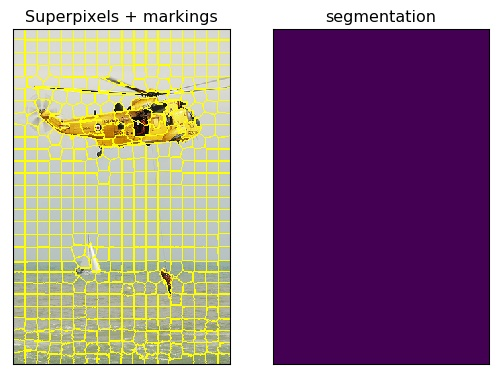
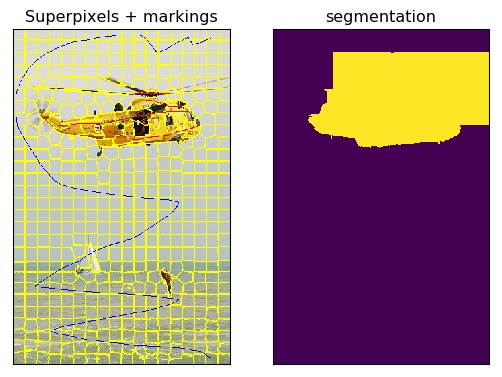
Feature vector refactoring

diff --git a/algorithms/algorithms.py b/algorithms/algorithms.py
@@ -23,6 +23,7 @@ class Algorithms:
         self.imgs_segment_sift_descriptors = dict()
         self.imgs_segment_histograms_hsv_normalized = dict()     # Stores for each superpixel a normalized hsv histogram
         self.imgs_histograms_hsv = dict()                        # A hsv histogram of the entire image
+        self.imgs_segment_feature_vectors = dict.fromkeys(image_paths, [])
         self.imgs_foreground_segments = dict.fromkeys(image_paths, [])  # List of foreground superpixels
         self.imgs_background_segments = dict.fromkeys(image_paths, [])  # List of background superpixels
         self.imgs_cosegmented = dict()            # Stores for each pixel its segment it belongs to after cosegmentation
@@ -78,22 +79,9 @@ class Algorithms:
             self.imgs_segment_sift_keypoints[img], self.imgs_segment_sift_descriptors[img] = sift.compute(gray, self.imgs_segment_sift_keypoints[img])
 
     def compute_hog(self):
-
         for img in self.images:
+            print('HOG not implemented')
             exit()
-
-    # Shows a plot of the histogram of the entire image at image_path or one of its segments
-    def show_histogram(self, image_path, segment=None):
-        if segment is None:
-            plt.title(image_path.split('/')[-1])
-            plt.imshow(self.imgs_histograms_hsv[image_path], interpolation='nearest')
-        else:
-            plt.title(image_path.split('/')[-1] + '    segment ' + str(segment))
-            plt.imshow(self.imgs_segment_histograms_hsv[image_path][segment], interpolation='nearest')
-        plt.xlabel('Saturation bins')
-        plt.ylabel('Hue bins')
-        plt.show()
-        plt.clf()
 
     # sets the foreground of the image at image_path to segments
     def set_fg_segments(self, image_path, segments):
@@ -103,23 +91,31 @@ class Algorithms:
     def set_bg_segments(self, image_path, segments):
         self.imgs_background_segments[image_path] = segments
 
+    def compute_feature_vectors(self, mode='color'):
+        for img in self.images:
+            self.imgs_segment_feature_vectors[img] = [[] for i in range(len(self.imgs_segment_ids[img]))]
+            for segment in self.imgs_segment_ids[img]:
+                # If mode is color then feature vector is the flattened color histogram
+                if mode is 'color':
+                    self.imgs_segment_feature_vectors[img][segment] = self.imgs_segment_histograms_hsv_normalized[img][
+                        segment].flatten()
+                if mode is 'sift':
+                    self.imgs_segment_feature_vectors[img][segment] = self.imgs_segment_sift_descriptors[img][segment]
+                if mode is 'color+sift':
+                    color_feature = self.imgs_segment_histograms_hsv_normalized[img][segment].flatten()
+                    sift_feature = self.imgs_segment_sift_descriptors[img][segment]
+                    self.imgs_segment_feature_vectors[img][segment] = np.concatenate((color_feature, sift_feature))
+
     # To be used after superpixel segmentation and feature extraction.
     # Splits the images up in num_clusters using the given method.
-    def perform_clustering(self, num_clusters=2, method='spectral', type='histogram'):
+    def perform_clustering(self, num_clusters=2, method='kmeans'):
         data = []
+        # combine the feature vectors into one list
         for img in self.images:
-            if type is 'histogram':
-                for h in self.imgs_segment_histograms_hsv_normalized[img]:
-                    data.append(h.flatten())
-            elif type is 'sift':
-                for s in self.imgs_segment_sift_descriptors[img]:
-                    data.append(s)
-            elif type is 'both':
-                for i in range(len(self.imgs_segment_sift_descriptors[img])):
-                    h = self.imgs_segment_histograms_hsv_normalized[img][i].flatten()
-                    s = self.imgs_segment_sift_descriptors[img][i]
-                    data.append(np.concatenate((h, s)))
+            for segment in self.imgs_segment_ids[img]:
+                data.append(self.imgs_segment_feature_vectors[img][segment])
 
+        # find the indices of each part in the data list
         indices = np.cumsum([len(self.imgs_segment_ids[img]) for img in self.images])
 
         if method is 'spectral':
@@ -187,9 +183,9 @@ class Algorithms:
                         continue
                     # Create two edges between segment and its neighbor with cost based on histogram matching
                     hist_neighbor = self.imgs_segment_histograms_hsv_normalized[img][n].flatten()  # histogram for neighbor
-                    graph.add_edge(nodes[i], nodes[n],
-                                   20 - cv2.compareHist(hist, hist_neighbor, hist_comp_alg),
-                                   20 - cv2.compareHist(hist_neighbor, hist, hist_comp_alg))
+                    energy_forward = 20 - cv2.compareHist(hist, hist_neighbor, hist_comp_alg)
+                    energy_backward = 20 - cv2.compareHist(hist_neighbor, hist, hist_comp_alg)
+                    graph.add_edge(nodes[i], nodes[n], energy_forward, energy_backward)
 
             graph.maxflow()
 
@@ -201,11 +197,31 @@ class Algorithms:
     def get_segment_boundaries(self, img_path):
         return find_boundaries(self.imgs_segmentation[img_path])
 
+    # Returns a binary mask after cosegmentation of the image at image_path of the segments in segments
+    def get_coseg_mask(self, image_path, segments=None):
+        if segments is None:
+            segments = np.unique(self.imgs_cosegmented[image_path])
+        return np.isin(self.imgs_cosegmented[image_path], segments)
+
     # write the segmented images to specified folder
     def save_segmented_images(self, folder):
-        for image in self.imgs_segmentation:
-            slic.save_superpixel_image(self.imgs_float64[image], self.imgs_segmentation[image],
-                                       folder + '/' + image.split('/')[-1])
+        for img in self.imgs_segmentation:
+            slic.save_superpixel_image(self.imgs_float64[img], self.imgs_segmentation[img],
+                                       folder + '/' + img.split('/')[-1])
+
+    # Shows a plot of the histogram of the entire image at image_path or one of its segments
+    def show_histogram(self, image_path, segment=None):
+        if segment is None:
+            plt.title(image_path.split('/')[-1])
+            histogram = self.imgs_histograms_hsv[image_path]
+        else:
+            plt.title(image_path.split('/')[-1] + '    segment ' + str(segment))
+            histogram = self.imgs_segment_histograms_hsv_normalized[image_path][segment]
+        plt.imshow(histogram, interpolation='nearest')
+        plt.xlabel('Saturation bins')
+        plt.ylabel('Hue bins')
+        plt.show()
+        plt.clf()
 
     def plot_cosegmentations(self, folder_path):
         for img in self.images:
@@ -216,26 +232,20 @@ class Algorithms:
             superpixels = mark_boundaries(self.imgs_float64[img], self.imgs_segmentation[img])
             marking = cv2.imread(folder_path + 'markings/' + img.split('/')[-1])
             if marking is not None:
-                superpixels[marking[:, :, 0] != 255] = (1, 0, 0)
-                superpixels[marking[:, :, 2] != 255] = (0, 0, 1)
+                superpixels[marking[:, :, 0] < 200] = (1, 0, 0)
+                superpixels[marking[:, :, 2] < 200] = (0, 0, 1)
             plt.imshow(superpixels)
             plt.title("Superpixels + markings")
 
             plt.savefig("output/segmentation/" + img.split('/')[-1], bbox_inches='tight', dpi=96)
             plt.clf()
 
-    # Returns a binary mask after cosegmentation of the image at image_path of the segments in segments
-    def get_coseg_mask(self, image_path, segments=None):
-        if segments is None:
-            segments = np.unique(self.imgs_cosegmented[image_path])
-        return np.isin(self.imgs_cosegmented[image_path], segments)
-
 
 if __name__ == '__main__':
 
-    folder_path = '../images_icoseg/043 Christ the Redeemer-Rio de Janeiro-Leonardo Paris/'
     folder_path = '../images_icoseg/018 Agra Taj Mahal-Inde du Nord 2004-Mhln/'
     folder_path = '../images_icoseg/025 Airshows-helicopter/'
+    folder_path = '../images_icoseg/043 Christ the Redeemer-Rio de Janeiro-Leonardo Paris/'
     image_paths = [folder_path + file for file in listdir(folder_path) if path.isfile(path.join(folder_path, file))]
 
     alg = Algorithms(image_paths)
@@ -249,8 +259,7 @@ if __name__ == '__main__':
 
     # Extract features
     alg.compute_sift(keypoint_size=32.0)
-
-    alg.compute_histograms_hsv(bins_H=10, bins_S=10)
+    alg.compute_histograms_hsv(bins_H=30, bins_S=1)
 
     # Retrieve foreground and background segments from marking images in markings folder
     # marking images should be white with red pixels indicating foreground and blue pixels indicating background and
@@ -258,13 +267,15 @@ if __name__ == '__main__':
     for image in image_paths:
         marking = cv2.imread(folder_path + 'markings/' + image.split('/')[-1])
         if marking is not None:
-            fg_segments = np.unique(alg.imgs_segmentation[image][marking[:, :, 2] < 200])
-            bg_segments = np.unique(alg.imgs_segmentation[image][marking[:, :, 0] < 200])
+            fg_segments = np.unique(alg.imgs_segmentation[image][marking[:, :, 0] < 200])
+            bg_segments = np.unique(alg.imgs_segmentation[image][marking[:, :, 2] < 200])
             alg.set_fg_segments(image, fg_segments)
             alg.set_bg_segments(image, bg_segments)
 
-    # alg.perform_clustering(4, 'kmeans', 'both')
-    alg.perform_graph_cut()
+    alg.compute_feature_vectors(mode='color')
+
+    alg.perform_clustering(2, 'spectral')
+    # alg.perform_graph_cut()
 
     for image in image_paths:
         cv2.imwrite('output/masks/'+image.split('/')[-1], np.uint8(alg.get_coseg_mask(image, 0)*255))
@@ -276,12 +287,10 @@ if __name__ == '__main__':
 
 # TODO
 
+# Graph-cut with sift
+#
+
 # Fix show histogram overwriting
 # Implement Sift and HOG into cosegmentation pipeline
-# Allow for unsupervised segmentation
 # Add support for different color spaces (see https://www.researchgate.net/publication/221453363_A_Comparison_Study_of_Different_Color_Spaces_in_Clustering_Based_Image_Segmentation)
-
-
-# TODO nice to have
-# SLIC superpixel labels containing pixels could be more efficient with numpy
 
